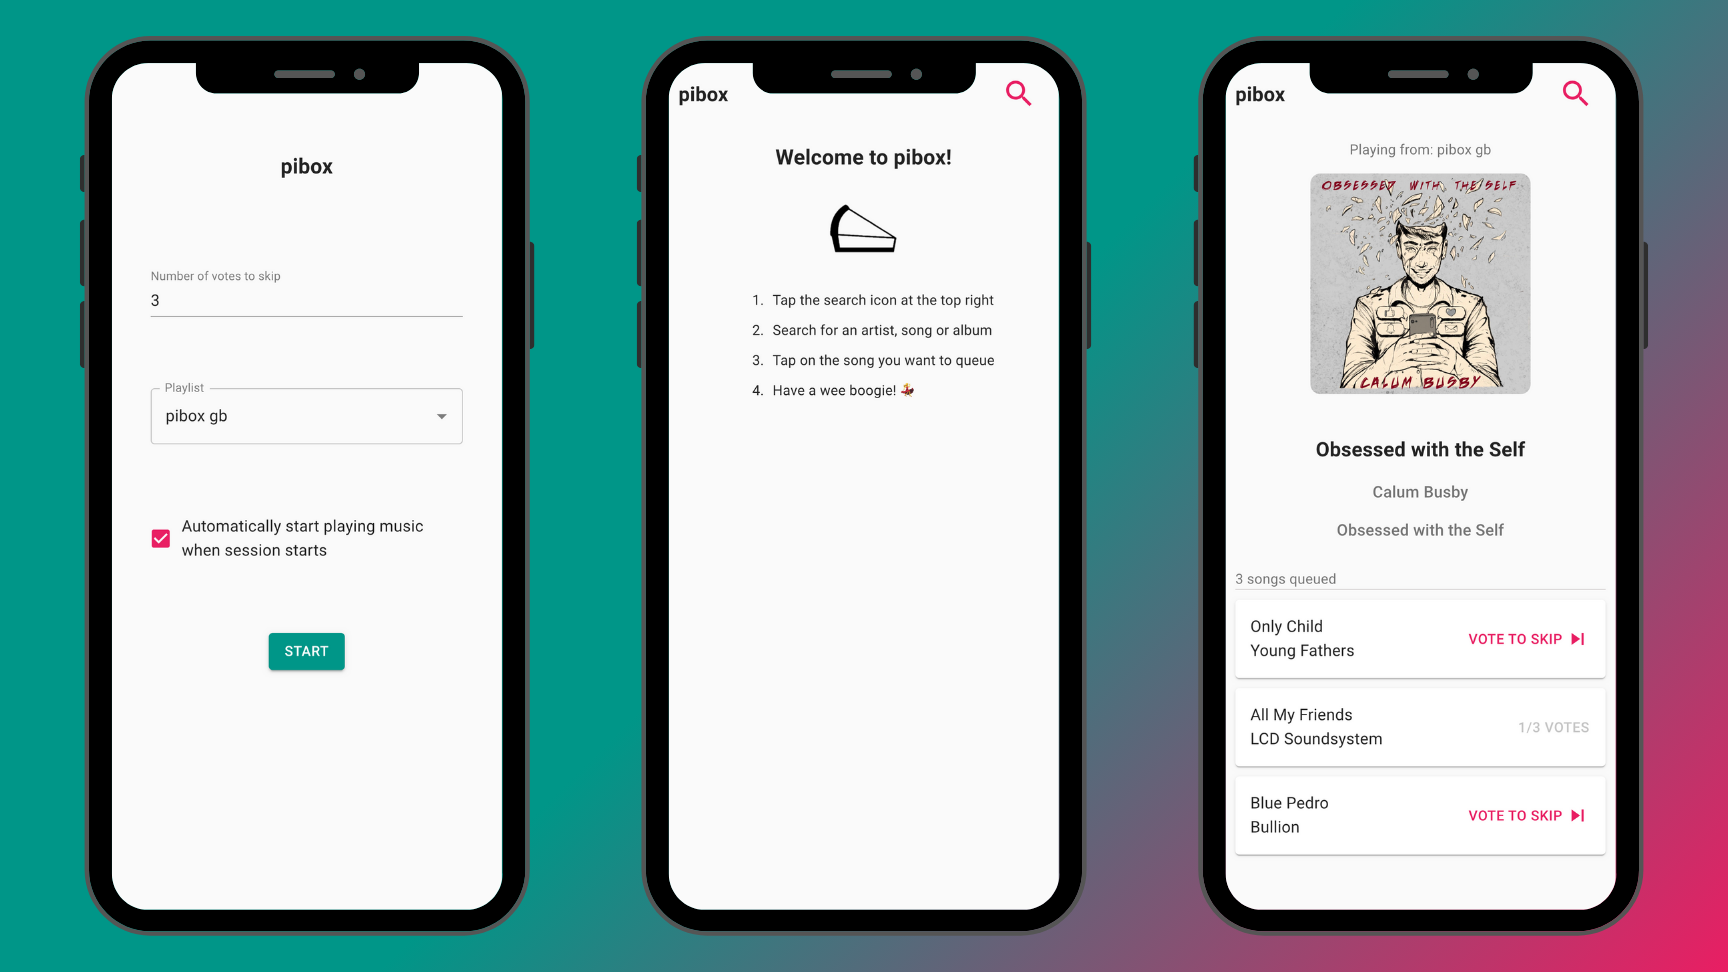
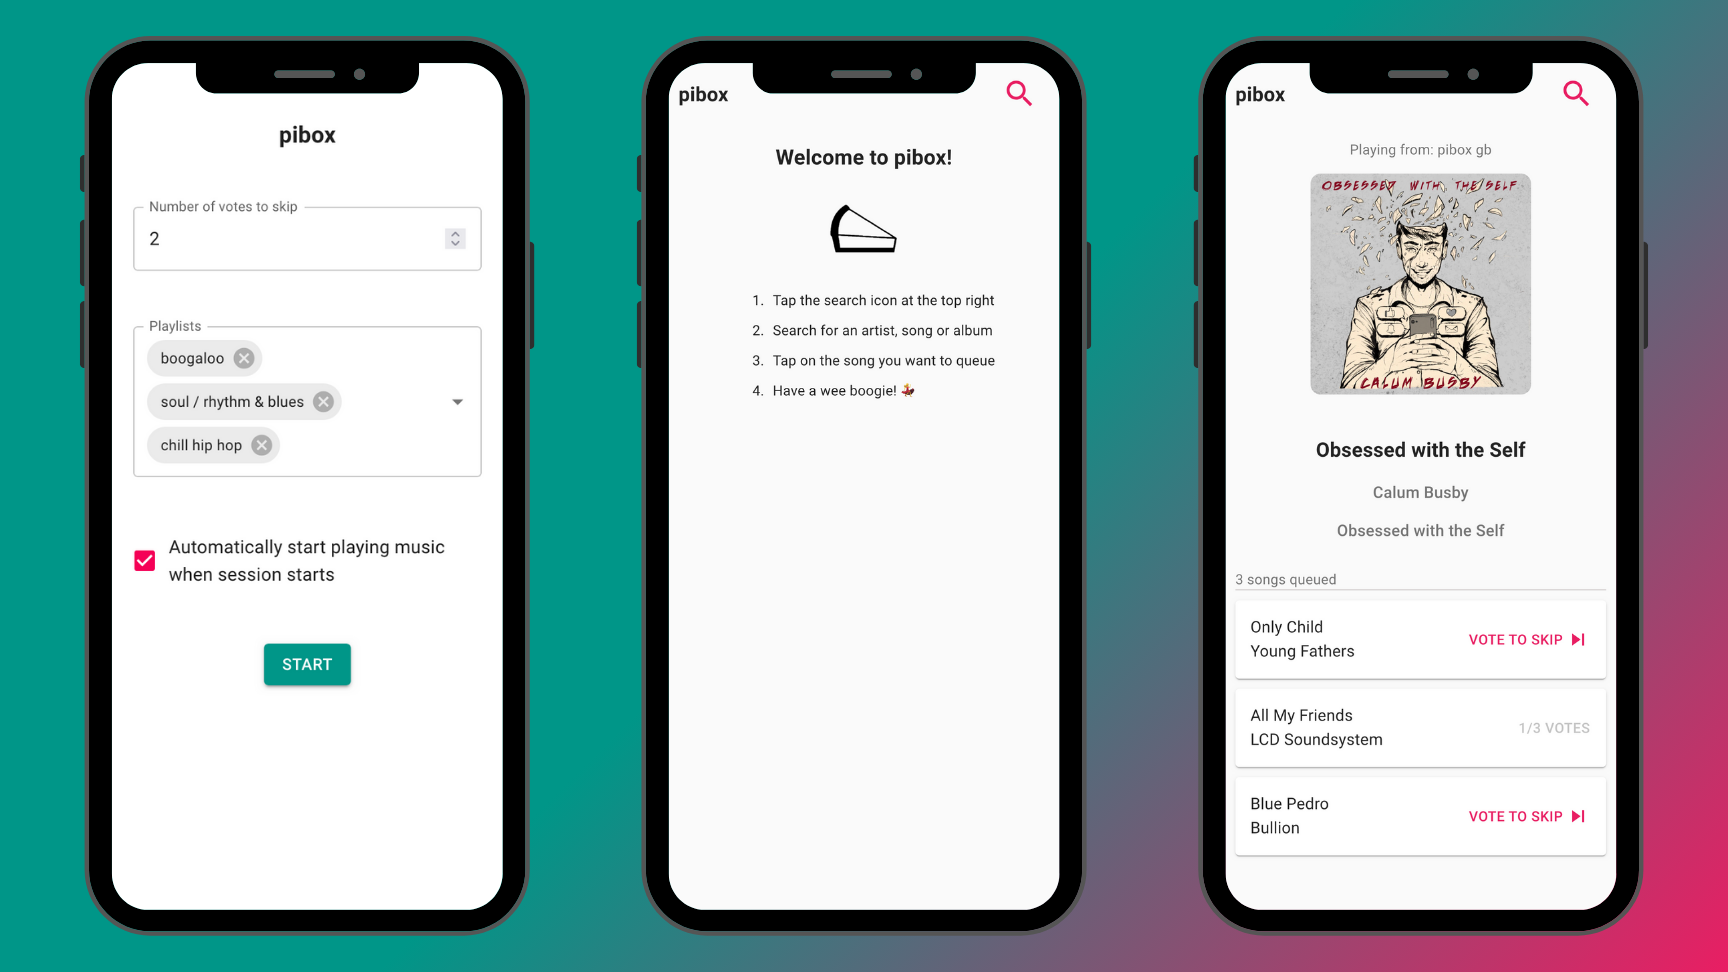
Update docs to reference multiple playlists

diff --git a/README.rst b/README.rst
@@ -1,4 +1,4 @@
-.. image:: https://raw.githubusercontent.com/gbannerman/mopidy-pibox/update-readme/docs/screenshots/pibox-header.png
+.. image:: https://raw.githubusercontent.com/gbannerman/mopidy-pibox/main/docs/screenshots/pibox-header.png
 
 ****************************
 Mopidy-Pibox
@@ -19,13 +19,13 @@ Features
 ========
 - Search for and queue songs using any Mopidy backend
 - Vote to skip queued tracks
-- Plays from a predefined playlist if no tracks are queued
+- Plays from predefined playlists if no tracks are queued
 - Prevents tracks from being queued again after they have been played or skipped
 - Admins controls to pause/resume playback or skip current track
 - Display view for showing on a TV or monitor
 - Can be used offline without an internet connection using Mopidy-Local_
 
-.. image:: https://raw.githubusercontent.com/gbannerman/mopidy-pibox/update-readme/docs/screenshots/pibox-mobile.png
+.. image:: https://raw.githubusercontent.com/gbannerman/mopidy-pibox/main/docs/screenshots/pibox-mobile.png
 
 .. _Mopidy-Local: https://mopidy.com/ext/local/
 
